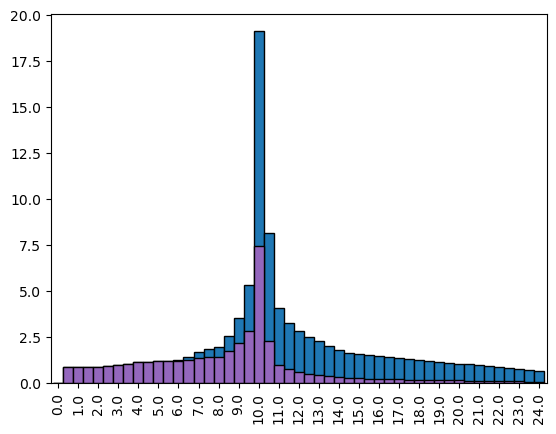
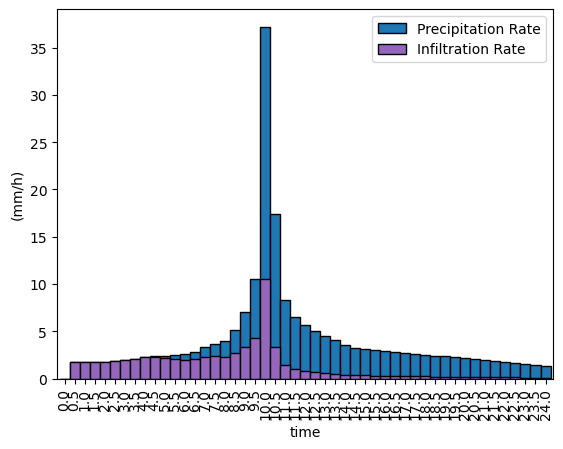
Refactor river network graph generation and update Grunsky coefficient function parameters

Changed region(s): [[0.0, 0.0, 1.0, 0.9885]]

diff --git a/src/hydrocivil/geomorphology.py b/src/hydrocivil/geomorphology.py
@@ -23,6 +23,50 @@ from .abstractions import SCS_MaximumRetention
 # ------------------------ Geomorphological properties ----------------------- #
 
 
+def rivers2graph(gdf_segments: gpd.GeoDataFrame, multigraph=False) -> nx.DiGraph:
+    """
+    Generate a networkx directed graph following a geodataframe with river
+    segments. 
+
+    Args:
+        gdf_segments (gpd.GeoDataFrame): River segments.
+        multigraph (bool, optional): Whether to build the graph as a 
+        multigraph or not. A multigraph accepts multiple edges between node
+        so it is suitable only for braided rivers. Defaults to False.
+
+    Returns:
+        (nx.DiGraph): River network represented as a directed acyclic graph.
+    """
+    # Explode geodataframe into all possible segments and compute segment length
+    gdf_segments = gdf_segments.explode(index_parts=False)
+    gdf_segments = gdf_segments.reset_index(drop=True)
+    gdf_segments['length'] = gdf_segments.geometry.length
+
+    # Create a networkx directed acyclic graph with edge attributes
+    G = nx.MultiDiGraph() if multigraph else nx.DiGraph()
+    G.graph["crs"] = gdf_segments.crs
+
+    key = 0
+    for ids, row in zip(gdf_segments.index, gdf_segments.itertuples()):
+        first = row.geometry.coords[0]
+        last = row.geometry.coords[-1]
+
+        data = [r for r in row][1:]
+        attributes = dict(zip(gdf_segments.columns, data))
+        if multigraph:
+            G.add_edge(first, last, segment_id=ids, key=key, **attributes)
+            key += 1
+        else:
+            G.add_edge(first, last, segment_id=ids, **attributes)
+
+    # Assign a topological order
+    topo_order = list(nx.topological_sort(G))
+    node_topo_order = {node: i for i, node in enumerate(topo_order)}
+    edge_topo_order = {(u, v): node_topo_order[u] for u, v in G.edges()}
+    nx.set_edge_attributes(G, edge_topo_order, "topological_order")
+    return G, gdf_segments
+
+
 def get_main_river(river_network: Union[gpd.GeoSeries, gpd.GeoDataFrame]
                    ) -> Union[gpd.GeoSeries, gpd.GeoDataFrame]:
     """
@@ -35,22 +79,17 @@ def get_main_river(river_network: Union[gpd.GeoSeries, gpd.GeoDataFrame]
     Returns:
         (GeoDataFrame): Main river extracted from the river network
     """
-    # Get network connectivity information
-    river_network = river_network.explode(index_parts=False)
-    start_node = river_network.geometry.apply(lambda g: Point(g.coords[0]))
-    end_node = river_network.geometry.apply(lambda g: Point(g.coords[-1]))
-    weight = river_network.length
-    ids = river_network.index
-
     # Create River Network Graph
-    G = nx.DiGraph()
-    for n, a, b, w in zip(ids, start_node, end_node, weight):
-        G.add_edge(a, b, index=n, weight=w)
+    G, gdf_segments = rivers2graph(river_network)
 
     # Get the main river segments
-    main_river = nx.dag_longest_path(G)
-    mask = start_node.isin(main_river)
-    main_river = river_network.loc[mask]
+    mriver_nodes = nx.dag_longest_path(G, weight='length')
+    mriver_edges = list(zip(mriver_nodes[:-1], mriver_nodes[1:]))
+    mask = [G.edges[edge]['segment_id'] for edge in mriver_edges]
+    main_river = gdf_segments.loc[mask]
+
+    top_order = [G.edges[edge]['topological_order'] for edge in mriver_edges]
+    main_river['topological_order'] = top_order
     return main_river
 
 

diff --git a/src/hydrocivil/rain.py b/src/hydrocivil/rain.py
@@ -27,8 +27,8 @@ import scipy.stats as st
 
 
 def grunsky_coef(storm_duration: Union[int, float],
-                 expon: float = 0.5,
-                 ref_duration: Union[int, float] = 24) -> float:
+                 ref_duration: Union[int, float] = 24,
+                 expon: float = 0.5,) -> float:
     """
     This function computes the duration coefficient given by a Grunsky-like
     Formula. Those formulas state that the duration coefficient is a power

diff --git a/README.md b/README.md
@@ -61,7 +61,7 @@ storm = storm.compute(timestep=0.5, duration=24, rainfall=100)
 storm = storm.infiltrate(method='SCS', cn=wshed.params.loc['curvenumber'].item())
 
 storm.pr.to_series().plot(kind='bar', width=1, ec='k')
-storm.losses.to_series().plot(kind='bar', width=1, color='tab:purple', ec='k')
+storm.infr.to_series().plot(kind='bar', width=1, color='tab:purple', ec='k')
 ```
 
     <Axes: >
@@ -74,8 +74,8 @@ storm.losses.to_series().plot(kind='bar', width=1, color='tab:purple', ec='k')
 # Compute the basin SCS unit hydrograph for the storm (UH related to the storm timestep)
 wshed = wshed.SynthUnitHydro(method='SCS', timestep=storm.timestep) # By default this uses the 484 SCS unit hydrograph. 
 
-# Compute the flood hydrograph as the convolution of the design storm with the unit hydrograph
-wshed.UnitHydro.convolve(storm.pr_eff).plot()
+# Compute the flood hydrograph as the convolution of the effective precipitation depth with the unit hydrograph
+wshed.UnitHydro.convolve(storm.pr_eff * storm.timestep).plot()
 ```
 
     <Axes: >
